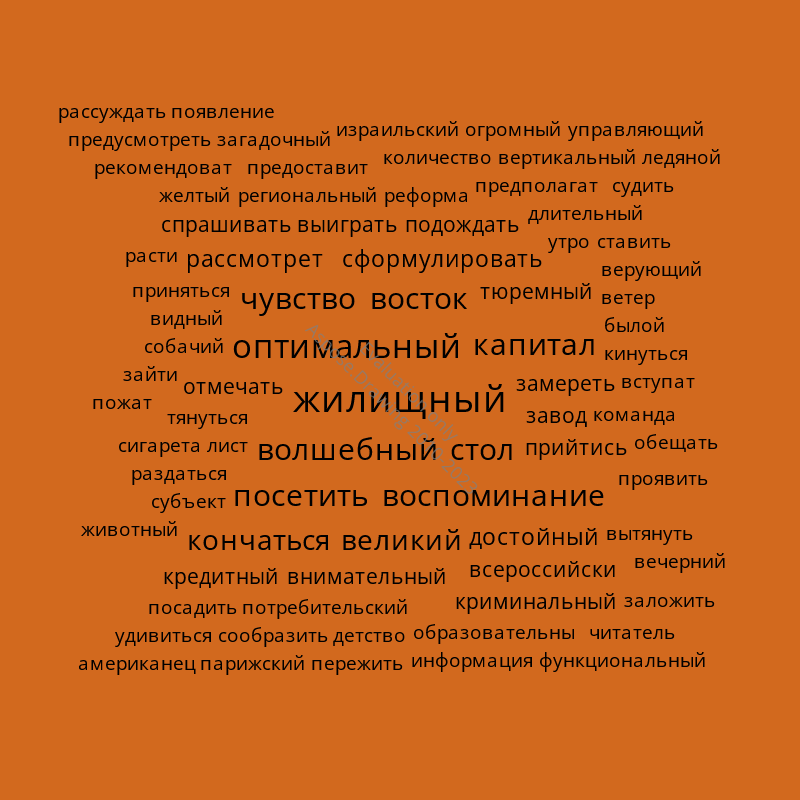
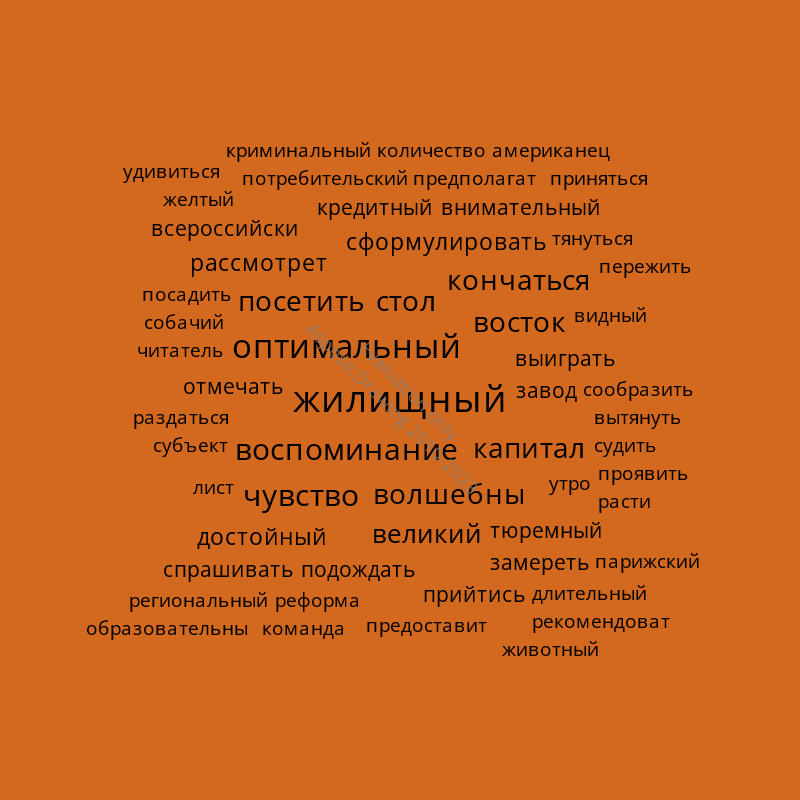
file format command and adding examples for commands

Changed region(s): [[0.0625, 0.125, 0.9062, 0.8438]]

diff --git a/TagCloud.ConsoleApp/CommandLine/Commands/Entities/DrawCommand.cs b/TagCloud.ConsoleApp/CommandLine/Commands/Entities/DrawCommand.cs
@@ -10,18 +10,18 @@ public class DrawCommand : ICommand
 {
     private readonly IVisualizer visualizer;
     private readonly IImageWorker imageWorker;
-    private readonly PathSettings pathSettings;
+    private readonly FileSettings fileSettings;
     private readonly IWordsService wordsService;
 
     public DrawCommand(
         IVisualizer visualizer, 
         IImageWorker imageWorker, 
-        PathSettings pathSettings,
+        FileSettings fileSettings,
         IWordsService wordsService)
     {
         this.visualizer = visualizer;
         this.imageWorker = imageWorker;
-        this.pathSettings = pathSettings;
+        this.fileSettings = fileSettings;
         this.wordsService = wordsService;
     }
     
@@ -29,10 +29,10 @@ public class DrawCommand : ICommand
     
     public bool Execute(string[] parameters)
     {
-        using var image = visualizer.Visualize(wordsService.GetWords(pathSettings.FileFromWithPath));
-        imageWorker.SaveImage(image, pathSettings.OutPathToFile, pathSettings.OutFileName);
+        using var image = visualizer.Visualize(wordsService.GetWords(fileSettings.FileFromWithPath));
+        imageWorker.SaveImage(image, fileSettings.OutPathToFile, fileSettings.ImageFormat, fileSettings.OutFileName);
         
-        Console.WriteLine($"Изображение было сохранено по пути {Path.GetFullPath(Path.Combine(pathSettings.OutPathToFile, pathSettings.OutFileName))}");
+        Console.WriteLine($"Изображение было сохранено по пути {Path.GetFullPath(Path.Combine(fileSettings.OutPathToFile, fileSettings.OutFileName))}");
 
         return true;
     }

diff --git a/TagCloud.ConsoleApp/CommandLine/Commands/Entities/FontFamilyCommand.cs b/TagCloud.ConsoleApp/CommandLine/Commands/Entities/FontFamilyCommand.cs
@@ -19,13 +19,18 @@ public class FontFamilyCommand : ICommand
     {
         if (parameters.Length == 0)
             throw new ArgumentException("Введите название шрифта");
-
-        var font = new Font(parameters[0], visualizerSettings.Font.Size);
         
-        if (font.IsSystemFont)
-            throw new ArgumentException($"Шрифт {parameters[0]} не является системным");
+        FontFamily fontFamily;
+        try
+        {
+            fontFamily = new FontFamily(parameters[0]);
+        }
+        catch (Exception e)
+        {
+            throw new ArgumentException(e.Message + Environment.NewLine + GetHelp());
+        }
 
-        visualizerSettings.Font = font;
+        visualizerSettings.Font = new Font(fontFamily, visualizerSettings.Font.Size);
 
         return false;
     }
@@ -35,6 +40,7 @@ public class FontFamilyCommand : ICommand
         return "Позволяет настраивать начертание шрифта\n" +
                "Параметры:\n" +
                "string - название шрифта\n" +
-               $"Актуальное значение {visualizerSettings.Font.FontFamily.Name}";
+               $"Актуальное значение: {visualizerSettings.Font.FontFamily.Name}\n" +
+               "Доступные шрифты в системе: " + string.Join(", ", FontFamily.Families.Select(f => f.Name));
     }
 }

diff --git a/TagCloud.ConsoleApp/CommandLine/Commands/Entities/FromCommand.cs b/TagCloud.ConsoleApp/CommandLine/Commands/Entities/FromCommand.cs
@@ -5,11 +5,11 @@ namespace TagCloud.ConsoleApp.CommandLine.Commands.Entities;
 
 public class FromCommand : ICommand
 {
-    private readonly PathSettings pathSettings;
+    private readonly FileSettings fileSettings;
 
-    public FromCommand(PathSettings pathSettings)
+    public FromCommand(FileSettings fileSettings)
     {
-        this.pathSettings = pathSettings;
+        this.fileSettings = fileSettings;
     }
     
     public string Trigger => "from";
@@ -18,7 +18,7 @@ public class FromCommand : ICommand
         if (parameters.Length != 1)
             throw new ArgumentException(GetHelp());
 
-        pathSettings.FileFromWithPath = parameters[0];
+        fileSettings.FileFromWithPath = parameters[0];
 
         return false;
     }
@@ -28,6 +28,6 @@ public class FromCommand : ICommand
         return "Позволяет указывать файл, из которого брать слова для облака тегов\n" +
                "Параметры:\n" +
                "stirng - pathToFIle\n" +
-               $"Актуальное значение {pathSettings.FileFromWithPath}";
+               $"Актуальное значение {fileSettings.FileFromWithPath}";
     }
 }

diff --git a/TagCloud.ConsoleApp/CommandLine/Commands/Entities/FileNameCommand.cs b/TagCloud.ConsoleApp/CommandLine/Commands/Entities/FileNameCommand.cs
@@ -5,11 +5,11 @@ namespace TagCloud.ConsoleApp.CommandLine.Commands.Entities;
 
 public class FileNameCommand : ICommand
 {
-    private readonly PathSettings pathSettings;
+    private readonly FileSettings fileSettings;
 
-    public FileNameCommand(PathSettings pathSettings)
+    public FileNameCommand(FileSettings fileSettings)
     {
-        this.pathSettings = pathSettings;
+        this.fileSettings = fileSettings;
     }
     
     public string Trigger => "filename";
@@ -19,7 +19,7 @@ public class FileNameCommand : ICommand
         if (parameters.Length < 1)
             throw new ArgumentException(GetHelp());
 
-        pathSettings.OutFileName = parameters[0] + ".png";
+        fileSettings.OutFileName = parameters[0];
 
         return false;
     }
@@ -29,6 +29,6 @@ public class FileNameCommand : ICommand
         return "Позволяет настраивать имя файла при сохранении облака тегов\n" +
                "Параметры:\n" +
                "stirng - filename\n" +
-               $"Актуальное значение {pathSettings.OutFileName}";
+               $"Актуальное значение {fileSettings.OutFileName}";
     }
 }

diff --git a/TagCloud.ConsoleApp/CommandLine/Commands/Entities/PathToFileCommand.cs b/TagCloud.ConsoleApp/CommandLine/Commands/Entities/PathToFileCommand.cs
@@ -5,11 +5,11 @@ namespace TagCloud.ConsoleApp.CommandLine.Commands.Entities;
 
 public class PathToFileCommand : ICommand
 {
-    private readonly PathSettings pathSettings;
+    private readonly FileSettings fileSettings;
 
-    public PathToFileCommand(PathSettings pathSettings)
+    public PathToFileCommand(FileSettings fileSettings)
     {
-        this.pathSettings = pathSettings;
+        this.fileSettings = fileSettings;
     }
     
     public string Trigger => "path";
@@ -19,7 +19,7 @@ public class PathToFileCommand : ICommand
         if (parameters.Length < 1)
             throw new ArgumentException(GetHelp());
 
-        pathSettings.OutPathToFile = parameters[0];
+        fileSettings.OutPathToFile = parameters[0];
 
         return false;
     }
@@ -29,6 +29,6 @@ public class PathToFileCommand : ICommand
         return "Позволяет настраивать путь для сохранения файла\n" +
                "Параметры:\n" +
                "string - pathToFile\n" +
-               $"Актуальное значение {pathSettings.OutPathToFile}";
+               $"Актуальное значение {fileSettings.OutPathToFile}";
     }
 }

diff --git a/TagCloud.ConsoleApp/CommandLine/Commands/Entities/ImageFormatCommand.cs b/TagCloud.ConsoleApp/CommandLine/Commands/Entities/ImageFormatCommand.cs
@@ -1,0 +1,35 @@
+using Aspose.Drawing.Imaging;
+using TagCloud.ConsoleApp.CommandLine.Commands.Interfaces;
+using TagCloud.Domain.Settings;
+using TagCloud.Utils.Extensions;
+
+namespace TagCloud.ConsoleApp.CommandLine.Commands.Entities;
+
+public class ImageFormatCommand : ICommand
+{
+    private readonly FileSettings fileSettings;
+
+    public ImageFormatCommand(FileSettings fileSettings)
+    {
+        this.fileSettings = fileSettings;
+    }
+    
+    public string Trigger => "format";
+    public bool Execute(string[] parameters)
+    {
+        if (parameters.Length != 1
+            || !parameters[0].TryConvertToImageFormat(out var format))
+            throw new ArgumentException("Данный формат недоступен\n" + GetHelp());
+
+        fileSettings.ImageFormat = format;
+        return false;
+    }
+
+    public string GetHelp()
+    {
+        return "Позволяет настраивать начертание шрифта\n" +
+               "Параметры:\n" +
+               "string - название шрифта\n" +
+               $"Актуальное значение: {fileSettings.ImageFormat}\n";
+    }
+}

diff --git a/TagCloud.Domain/Layouter/CircularCloudLayouter.cs b/TagCloud.Domain/Layouter/CircularCloudLayouter.cs
@@ -1,27 +1,29 @@
-using TagCloud.Domain.Extensions;
 using TagCloud.Domain.Layout.Interfaces;
 using TagCloud.Domain.Layouter.Interfaces;
 using TagCloud.Domain.Settings;
+using TagCloud.Utils.Extensions;
 
 namespace TagCloud.Domain.Layouter;
 
 public class CircularCloudLayouter : ICloudLayouter
 {
+    private readonly LayoutSettings settings;
     private readonly ILayout layout;
     private readonly List<Rectangle> rectangles = new();
+    public Point Center { get; private set; }
 
     public CircularCloudLayouter(LayoutSettings settings, ILayout layout)
     {
+        this.settings = settings;
         this.layout = layout;
-        Center = new Point(settings.Dimensions.GetGreaterHalf());
     }
-
-    public Point Center { get; }
     
     public IReadOnlyCollection<Rectangle> Rectangles => rectangles;
 
     public Rectangle PutNextRectangle(Size rectangleSize)
     {
+        Center = new Point(settings.Dimensions.GetGreaterHalf());
+        
         if (rectangleSize.Width <= 0 || rectangleSize.Height <= 0)
             throw new ArgumentException("Width and height of rectangle must be positive");
 

diff --git a/TagCloud.ConsoleApp/CommandLine/Commands/Entities/ColorCommand.cs b/TagCloud.ConsoleApp/CommandLine/Commands/Entities/ColorCommand.cs
@@ -1,6 +1,6 @@
-using Aspose.Drawing;
 using TagCloud.ConsoleApp.CommandLine.Commands.Interfaces;
 using TagCloud.Domain.Settings;
+using TagCloud.Utils.Extensions;
 
 namespace TagCloud.ConsoleApp.CommandLine.Commands.Entities;
 
@@ -20,10 +20,9 @@ public class ColorCommand : ICommand
         if (parameters.Length < 3
             || !int.TryParse(parameters[0], out var red)
             || !int.TryParse(parameters[1], out var green)
-            || !int.TryParse(parameters[2], out var blue))
+            || !int.TryParse(parameters[2], out var blue)
+            || !(red, green, blue).TryParseColor(out var color))
             throw new ArgumentException(GetHelp());
-
-        var color = Color.FromArgb(1, red, green, blue);
 
         visualizerSettings.Color = color;
         return false;

diff --git a/TagCloud.Domain/Settings/TagCloudSettings.cs b/TagCloud.Domain/Settings/TagCloudSettings.cs
@@ -2,14 +2,14 @@ namespace TagCloud.Domain.Settings;
 
 public class TagCloudSettings
 {
-    public TagCloudSettings(LayoutSettings layoutSettings, PathSettings pathSettings, VisualizerSettings visualizerSettings)
+    public TagCloudSettings(LayoutSettings layoutSettings, FileSettings fileSettings, VisualizerSettings visualizerSettings)
     {
         LayoutSettings = layoutSettings;
-        PathSettings = pathSettings;
+        FileSettings = fileSettings;
         VisualizerSettings = visualizerSettings;
     }
         
     public LayoutSettings LayoutSettings { get; }
-    public PathSettings PathSettings { get; }
+    public FileSettings FileSettings { get; }
     public VisualizerSettings VisualizerSettings { get; }
 }

diff --git a/TagCloud.Domain/Visualizer/Visualizers/Visualizer.cs b/TagCloud.Domain/Visualizer/Visualizers/Visualizer.cs
@@ -1,9 +1,9 @@
-using TagCloud.Domain.Extensions;
 using TagCloud.Domain.Layouter.Interfaces;
 using TagCloud.Domain.Settings;
 using TagCloud.Domain.Visualizer.Interfaces;
 using TagCloud.Domain.WordEntities;
 using TagCloud.Domain.WordProcessing.Interfaces;
+using TagCloud.Utils.Extensions;
 
 namespace TagCloud.Domain.Visualizer.Visualizers;
 
@@ -71,7 +71,7 @@ public class Visualizer : IVisualizer
     {
         using var brush = new SolidBrush(settings.VisualizerSettings.Color);
         foreach (var word in words) 
-            graphics.DrawString(word.Text, word.Font, brush, word.Rectangle.RectangleF());
+            graphics.DrawString(word.Text, word.Font, brush, word.Rectangle.ToRectangleF());
     }
 
 }

diff --git a/TagCloud.Utils/Images/ImageWorker.cs b/TagCloud.Utils/Images/ImageWorker.cs
@@ -6,13 +6,13 @@ namespace TagCloud.Utils.Images;
 
 public class ImageWorker : IImageWorker
 {
-    public void SaveImage(Image image, string path, string filename, ImageFormat? imageFormat = null)
+    public void SaveImage(Image image, string path, ImageFormat imageFormat, string filename)
     {
         if (!Directory.Exists(path))
             Directory.CreateDirectory(path);
+
+        var pathCombined = Path.Combine(path, filename + "." + imageFormat.ToString().ToLower());
         
-        imageFormat ??= ImageFormat.Png;
-        
-        image.Save(Path.Combine(path, filename), imageFormat);
+        image.Save(pathCombined, imageFormat);
     }
 }

diff --git a/TagCloud.Domain/Settings/FileSettings.cs b/TagCloud.Domain/Settings/FileSettings.cs
@@ -1,8 +1,10 @@
+using Aspose.Drawing.Imaging;
+
 namespace TagCloud.Domain.Settings;
 
-public class PathSettings
+public class FileSettings
 {
-    private string outFileName = "cloud.png";
+    private string outFileName = "cloud";
     private string outPathToFile = "../../../TagCloudImages";
     private string fileFromWithPath = "../../../src/source.txt";
 
@@ -41,4 +43,6 @@ public class PathSettings
             fileFromWithPath = value;
         }
     }
+    
+    public ImageFormat ImageFormat { get; set; } = ImageFormat.Png;
 }
